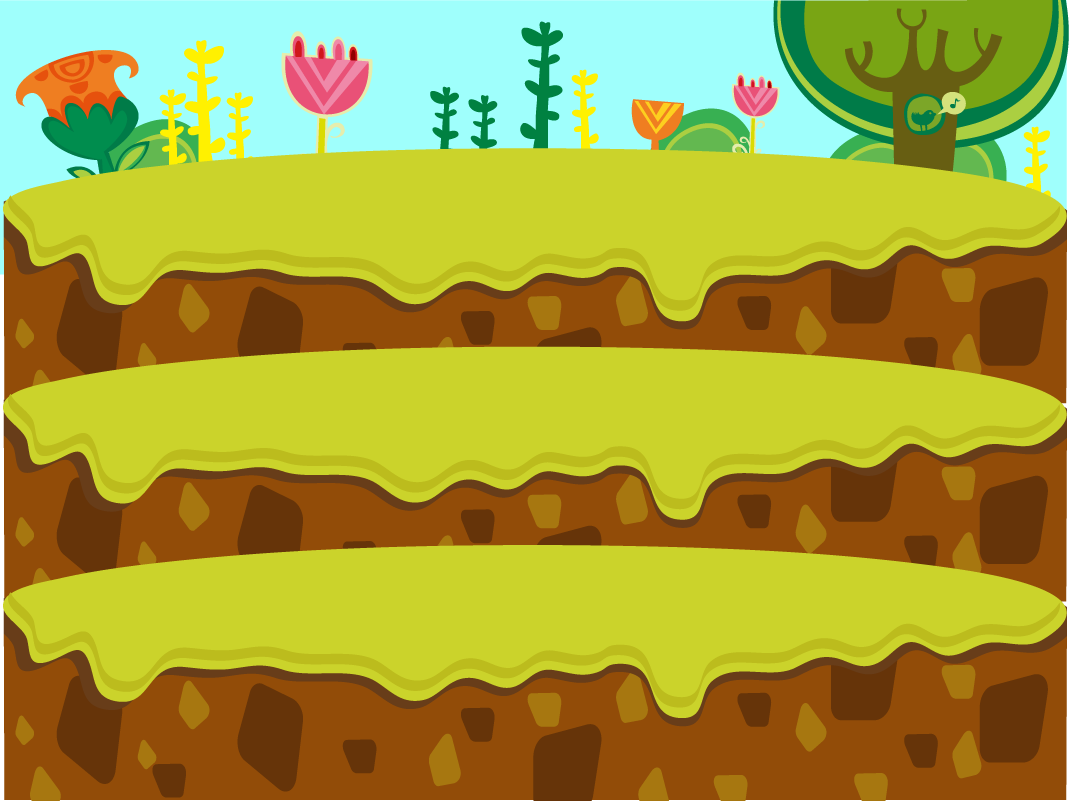
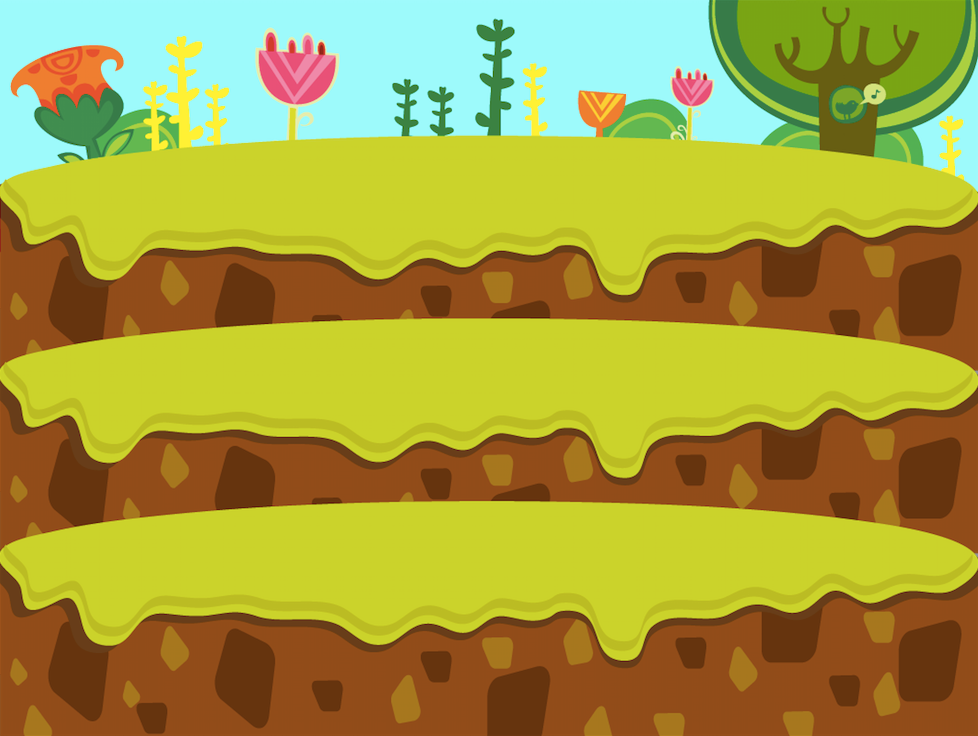
hole

diff --git a/src/Whac/components/hole.js b/src/Whac/components/hole.js
@@ -1,0 +1,79 @@
+function Hole() {
+	this.x = 0; //px
+	this.y = 0; //py
+	this.available = true; //bool
+}
+var row=3;
+var col;
+var arrHole;
+var holeWidth;
+var holeHeight;
+function holeMap(){
+	var width=Env2.x*0.815;
+	holeWidth=Env2.x*sizeValue*2.1/400;
+	holeHeight=Env2.y*sizeValue*1.05/400;
+	var internal=holeWidth*0.25;
+	var internalHeight=Env2.y*0.246;
+	col = Math.floor((width+internal)/(holeWidth+internal));
+	var px=Env2.x*0.1;
+	var py=Env2.y*0.2;
+	arrHole = new Array();
+	for (var i = 0; i < 3; i++) {
+		arrHole[i]=new Array();
+	 	for (var j = 0; j < col; j++) {
+	 		var h = new Hole();
+	 		h.x=px+j*(holeWidth+internal);
+	 		h.y=py+i*internalHeight;
+	 		h.available=true;
+	 		arrHole[i].push(h);
+	 	};
+	}; 
+}
+Crafty.c('Hole_base',{
+	init:function(){
+		this.arr=new Array();
+		this.onResize();
+		this.bind('ResizedWindow',this.onResize);
+	},
+	onResize:function(){
+		if (this.arr.length>0) {
+			for (var i = 0; i < arr.length; i++) {
+				this.arr[i].destroy();
+			};
+		};
+		for (var i = 0; i < 3; i++) {
+			for (var j = 0; j < col; j++) {
+				var temp=Crafty.e('2D, Persist, Canvas, Scale2, spr_hole_base')
+							.setLayer('hole_base')
+							.attr({w:holeWidth,h:holeHeight})
+							.setPos(arrHole[i][j].x,arrHole[i][j].y);
+				this.arr.push(temp);
+			};
+		};
+	}
+});
+Crafty.c('Hole',{
+	init:function(){
+		this.arr=new Array();
+		this.onResize();
+		this.bind('ResizedWindow',this.onResize);
+	},
+	onResize:function(){
+		this.holeWidth=Env2.x*sizeValue*1.87/400;
+		this.holeHeight=Env2.y*sizeValue*0.84/400;
+		if (this.arr.length>0) {
+			for (var i = 0; i < arr.length; i++) {
+				this.arr[i].destroy();
+			};
+		};
+		for (var i = 0; i < 3; i++) {
+			for (var j = 0; j < col; j++) {
+				var temp=Crafty.e('2D, Persist, Canvas, Scale2, spr_hole')
+							.setLayer('hole')
+							.attr({w:this.holeWidth,h:this.holeHeight})
+							.setPos(arrHole[i][j].x+holeWidth*0.065,arrHole[i][j].y-holeHeight*0.37);
+				this.arr.push(temp);
+			};
+		};
+	}
+});

diff --git a/src/Whac/scenes2.js b/src/Whac/scenes2.js
@@ -21,14 +21,29 @@ Crafty.scene('Loading2',
 		});
 		//Load assets
 		Crafty.load(
-			['assets/crosshair.png'
+			['assets/crosshair.png',
+			 'assets/bg.png',
+			 'assets/board.png',
+			 'assets/GameOver.png',
+			 'assets/hole_base.png',
+			 'assets/hole.png',
+			 'assets/mice.png',
+			 'assets/reload.mp3',
+			 'assets/shoot.mp3'
 			], function onLoad(){
 				//assets loaded
 				//create sprite components from image files
 				Crafty.sprite(64, 64, 'assets/crosshair.png', {
 				  	spr_crosshair: [0,0]//define spr_crosshair entity used in mouse.js
 			    });
-			    
+			    Crafty.sprite('assets/bg.png', {spr_background:[0,0,978,736]});
+			    Crafty.sprite('assets/board.png', {spr_board:[0,0,790,480]});
+			    Crafty.sprite('assets/GameOver.png', {spr_gameover:[0,0,385,88]});
+			    Crafty.sprite('assets/hole_base.png', {spr_hole_base:[0,0,210,69]});
+			    Crafty.sprite('assets/hole.png', {spr_hole:[0,0,187,56]});
+			    Crafty.sprite(202, 220, 'assets/mice.png', {
+				  	spr_mice: [0,0]
+			    });
 				//setup audio from files
 				Crafty.audio.add("shoot", "assets/shoot.mp3");
 				Crafty.audio.add("reload", "assets/reload.mp3");
@@ -37,6 +52,10 @@ Crafty.scene('Loading2',
 					//crosshair cursor 
 					Crafty.e('GameMouse2');
 				}
+				//background
+				Crafty.e('Background');
+				Crafty.e('Hole_base');
+				Crafty.e('Hole');
 				//go to the start menu scene
 				Crafty.scene('StartMenu2');
 				Crafty.trigger('SceneChange',{});

diff --git a/src/Whac/game2.js b/src/Whac/game2.js
@@ -16,10 +16,17 @@ Game2={
 		}
 		Env2.global.pixelRatio = window.devicePixelRatio;
 		Env2.calculateVariables();
-        //make the map
-        holeMap(resolWidth,resolHeight);
 		//start Crafty
 		if(Env2.global.mobile){
+			if (window.innerHeight > window.innerWidth) {
+				//protrait
+				Env2.x=resolWidth;
+	    		Env2.y=resolHeight;
+			}else if (window.innerHeight <= window.innerWidth) {
+				//landscape
+				Env2.x=resolHeight+15;
+	     		Env2.y=resolWidth;
+			};
 			window.onresize = function(e) {
 				//console.log("window changed");
 				Env2.calculateVariables();
@@ -29,10 +36,10 @@ Game2={
 		    		Env2.y=resolHeight;
 				}else if (window.innerHeight <= window.innerWidth) {
 					//landscape
-					Env2.x=resolHeight;
-		     		Env2.y=resolWidth-15;
+					Env2.x=resolHeight+15;
+		     		Env2.y=resolWidth;
 				};
-				holeMap(Env2.x,Env2.y);
+				holeMap();
 				Crafty.trigger('ResizedWindow');				
 			}
 			Crafty.init(Env2.x,Env2.y,gameScreen);
@@ -45,6 +52,8 @@ Game2={
 			gameScreen.style.bottom=0;
 			gameScreen.style.right=0;			
 	    }
+	    //make the map
+        holeMap();
 	    document.body.style.background = "black";
 		document.body.style.margin=0;
 		document.body.style.padding=0;

diff --git a/index.html b/index.html
@@ -21,8 +21,8 @@
 <tr>
 <td>Game Mode:</td>
 <td>
-  <input type="radio" name="mode" value="DuckHunt" checked>DuckHunt 
-  <input type="radio" name="mode" value="Whac-A-Mole" >Whac-A-Mole
+  <input type="radio" name="mode" value="DuckHunt" >DuckHunt 
+  <input type="radio" name="mode" value="Whac-A-Mole" checked>Whac-A-Mole
 </td>
 </tr>
 <tr>
@@ -106,10 +106,11 @@ ObjectColor:
 <script src="./src/duck/components/button.js"></script>
 <script src="./src/duck/components/player.js"></script>
 <script src="./src/duck/components/duck.js"></script>
-<script src="./src/Whac/hole.js"></script>
 <script src="./src/Whac/env2.js"></script>
 <script src="./src/Whac/game2.js"></script>
 <script src="./src/Whac/scenes2.js"></script>
+<script src="./src/Whac/components/background.js"></script>
+<script src="./src/Whac/components/hole.js"></script>
 <script src="./src/Whac/components/scale2.js"></script>
 <script src="./src/Whac/components/mouse2.js"></script>
 <script src="./src/Whac/components/text2.js"></script>

diff --git a/src/Whac/components/scale2.js b/src/Whac/components/scale2.js
@@ -43,3 +43,15 @@ Crafty.c('Scale2', {
 		return Env2.layers[this.zLayer];
 	}
 });
+//SpriteScale 
+//A sprite component which includes the Scale component 
+Crafty.c('SpriteScale', {
+	init: function(){
+		this.spriteName = 'spr_mice';
+		this.requires('2D, Canvas, Scale2, ' + this.spriteName);
+	},
+	setSprite: function(name){
+		this.spriteName = name;
+		this.requires(this.spriteName);
+	}
+});

diff --git a/src/Whac/env2.js b/src/Whac/env2.js
@@ -70,8 +70,11 @@ Env2 = {
   //layer management 
   //allows you to quickly change the layer of things
   layers: {
-    mices:0,
-    default_layer: 1,
+    background:0,
+    hole:1,
+    mices:2,
+    hole_base:3,
+    default_layer: 4,
     button:7,
     text:8,
     crosshair:10,//pointer

diff --git a/src/Whac/components/background.js b/src/Whac/components/background.js
@@ -1,0 +1,11 @@
+Crafty.c('Background',{
+	init:function(){
+		this.requires('2D, Persist, Canvas, Scale2, spr_background');
+		this.setLayer('background');
+		this.onResize();
+		this.bind('ResizedWindow',this.onResize);
+	},
+	onResize:function(){
+		this.attr({w:Env2.x,h:Env2.y});
+	}
+});
